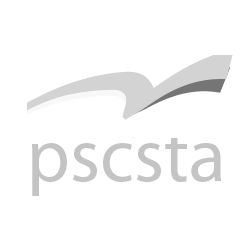
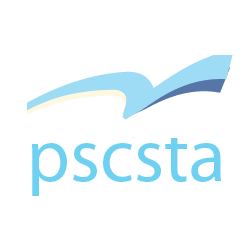
Updated contest pages, sponsor images, site config (#13)
* Updated contest pages, sponsor images, site config

* minor tabbing fix

Changed region(s): [[0.112, 0.532, 0.896, 0.784], [0.084, 0.196, 0.924, 0.476]]

diff --git a/_layouts/post-contest.html b/_layouts/post-contest.html
@@ -26,6 +26,13 @@
 
         <div class="post-contest-body">
           <div class="post-contest-max-width">
+            {% if page.contest_sponsors %} 
+              <div style="float: right;margin-right: -150px;">
+                <h1><b>Sponsors</b></h1>
+                <a href="https://pscsta.org"><img src="/assets/images/sponsor_pscsta.png" style="width:150px; margin-right: 20px;"></a>
+                <a href="https://pagliacci.com"><img src="/assets/images/sponsor_pagliacci.jpg" style="width:100px;"></a>
+              </div> 
+            {% endif %}
             {{ content }}
           </div>
         </div>

diff --git a/_includes/head.html b/_includes/head.html
@@ -2,8 +2,9 @@
   <meta charset="utf-8">
   <meta http-equiv="X-UA-Compatible" content="IE=edge">
   <meta name="viewport" content="width=device-width, initial-scale=1">
-  <title>{{ site.title }}</title>
+  <title>TeamsCode</title>
   <link href="https://fonts.googleapis.com/css?family=Roboto:400,500,700|Roboto+Mono:400,500,700" rel="stylesheet">
   <link rel="stylesheet" href="{{ "/css/screen.css" | prepend: site.baseurl }}">
   <script src="https://use.fontawesome.com/2df63b54a9.js"></script>
+  <link rel="shortcut icon" type="image/png" href="/favicon.png">
 </head>

diff --git a/index.html b/index.html
@@ -1,7 +1,6 @@
 ---
 layout: default
 ---
-
 <div class="index-header clearfix">
   <div class="site-max-width clearfix">
     <div class="index-header-animation">

diff --git a/_posts/2017-05-08-spring-2017-mihs-programming-contest.md b/_posts/2017-05-08-spring-2017-mihs-programming-contest.md
@@ -25,15 +25,15 @@ There was a great turnout of 103 students, or 41 teams. The contest was held in 
 
 ## Contest files
 
-[Advanced scoreboard](http://example.net/)  
-[Intermediate scoreboard](http://example.net/)  
-[Problem packet](http://example.net/)  
-[Judges answer packet](http://example.net/)  
-[Input text files](http://example.net/)
+[Advanced scoreboard](https://view.publitas.com/codemihs/scoreboard-advanced-2017)  
+[Intermediate scoreboard](https://view.publitas.com/codemihs/codemihs-scoreboard-intermediate-2017)  
+[Problem packet](https://view.publitas.com/codemihs/codemihs-problem-packet)  
+[Judges answer packet](https://view.publitas.com/codemihs/codemihsjudgesdata)  
+[Input text files](https://drive.google.com/drive/folders/0B3GiTJ1YDPmzWWNuNTlfMkF4Q3c)
 
 ## Pictures
 
-[Pictures on Google Drive](http://example.net/)
+[Pictures on Google Drive](https://drive.google.com/drive/folders/0By-6WanV3FA5aHQ2MGVUSWdfcFk?usp=sharing)
 
 ## Prizes
 
@@ -47,11 +47,11 @@ Thank you to the Living Computer Museum and Earl Bergquist for helping supply ma
 
 ## Sponsors
 
-![Microsoft Teals]({{ site.url }}/assets/images/sponsor_msft_teals.png){:width="400px"}
+[![Microsoft Teals](/assets/images/sponsor_msft_teals.png){:width="400px"}](https://www.tealsk12.org/)
 
-![PSCSTA]({{ site.url }}/assets/images/sponsor_pscsta.png){:width="150px"}
-![Lions Club]({{ site.url }}/assets/images/sponsor_lions.jpg){:width="150px"}
-![Pagliacci Pizza]({{ site.url }}/assets/images/sponsor_pagliacci.jpg){:width="100px"}
+[![PSCSTA](/assets/images/sponsor_pscsta.png){:width="150px"}](https://pscsta.org)
+[![Lions Club](/assets/images/sponsor_lions.jpg){:width="150px"}](http://mercerislandlions.org/)
+[![Pagliacci Pizza](/assets/images/sponsor_pagliacci.jpg){:width="100px"}](https://www.pagliacci.com/)
 
 ## Volunteers / Organizers
 

diff --git a/_posts/2017-10-1-redirect-to-fall-2017-contest.md b/_posts/2017-10-1-redirect-to-fall-2017-contest.md
@@ -1,0 +1,7 @@
+---
+layout: post-contest
+permalink: /future-contests/
+---
+
+<meta http-equiv="refresh" content="0; url=http://teamscode.github.io/contest/fall-2017-mihs-programming-contest/" />
+<p><a href="http://teamscode.github.io/contest/fall-2017-mihs-programming-contest/">Redirect to Fall 2017 Contest Page</a></p>

diff --git a/_posts/2017-9-24-fall-2017-mihs-programming-contest.md b/_posts/2017-9-24-fall-2017-mihs-programming-contest.md
@@ -4,6 +4,7 @@ permalink: /contest/fall-2017-mihs-programming-contest/
 contest_title: Fall 2017 MIHS Programming Contest
 contest_date: October 21st
 contest_location: Mercer Island High School
+contest_sponsors: 2
 ---
 
 # <a href="https://teamscode.typeform.com/to/SGxvcW">Sign Up Here</a>
